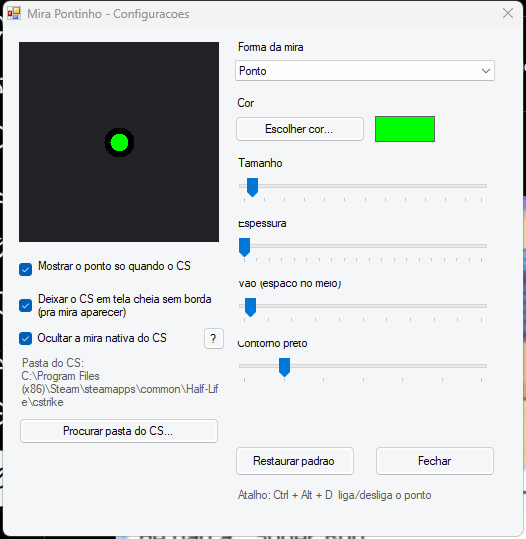
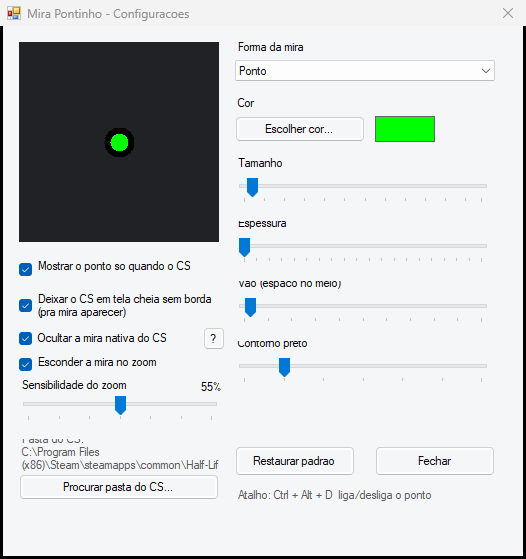
feat: esconder a mira no zoom (AWP/Scout) + sensibilidade ajustavel

diff --git a/src/MiraPontinho.cs b/src/MiraPontinho.cs
@@ -83,6 +83,9 @@ namespace MiraPontinho
                         case "--screen": s.ForceScreenCenter = true; break;
                         case "--borderless": s.Borderless = true; break;
                         case "--no-borderless": s.Borderless = false; break;
+                        case "--hide-scope": s.HideOnScope = true; break;
+                        case "--no-hide-scope": s.HideOnScope = false; break;
+                        case "--scope-threshold": s.ScopeThreshold = int.Parse(a[++i]); break;
                     }
                 }
                 catch { }
@@ -105,6 +108,8 @@ namespace MiraPontinho
         public bool Borderless = true;    // deixa a janela do CS em tela cheia sem borda
         public bool ForceScreenCenter = false;
         public bool HideCsCrosshair = false; // oculta a mira nativa do CS (via autoexec.cfg)
+        public bool HideOnScope = true;      // esconde o ponto quando da zoom (AWP/Scout)
+        public int ScopeThreshold = 55;      // % de tela preta pra considerar "scoped"
         public string CstrikePath = "";
         public string OrigCrosshairColor = "50 250 50";
         public string OrigCrosshairTranslucent = "0";
@@ -142,6 +147,8 @@ namespace MiraPontinho
                         case "onlyingame": s.OnlyInGame = v == "1"; break;
                         case "borderless": s.Borderless = v == "1"; break;
                         case "hidecs": s.HideCsCrosshair = v == "1"; break;
+                        case "hideosscope": s.HideOnScope = v == "1"; break;
+                        case "scopethreshold": s.ScopeThreshold = ParseInt(v, s.ScopeThreshold); break;
                         case "cstrikepath": s.CstrikePath = v; break;
                         case "origcolor": s.OrigCrosshairColor = v; break;
                         case "origtranslucent": s.OrigCrosshairTranslucent = v; break;
@@ -162,6 +169,7 @@ namespace MiraPontinho
             Thickness = Clamp(Thickness, 1, 20);
             Gap = Clamp(Gap, 0, 40);
             Outline = Clamp(Outline, 0, 6);
+            ScopeThreshold = Clamp(ScopeThreshold, 20, 95);
             if (Shape == null) Shape = "dot";
             Shape = Shape.ToLowerInvariant();
             if (Shape != "dot" && Shape != "cross" && Shape != "t" && Shape != "circle" && Shape != "x")
@@ -186,6 +194,8 @@ namespace MiraPontinho
                 sb.AppendLine("onlyingame=" + (OnlyInGame ? "1" : "0"));
                 sb.AppendLine("borderless=" + (Borderless ? "1" : "0"));
                 sb.AppendLine("hidecs=" + (HideCsCrosshair ? "1" : "0"));
+                sb.AppendLine("hideosscope=" + (HideOnScope ? "1" : "0"));
+                sb.AppendLine("scopethreshold=" + ScopeThreshold);
                 sb.AppendLine("cstrikepath=" + CstrikePath);
                 sb.AppendLine("origcolor=" + OrigCrosshairColor);
                 sb.AppendLine("origtranslucent=" + OrigCrosshairTranslucent);
@@ -464,6 +474,9 @@ namespace MiraPontinho
         [DllImport("user32.dll")] private static extern bool SetWindowPos(IntPtr hWnd, IntPtr hWndInsertAfter, int X, int Y, int cx, int cy, uint uFlags);
         [DllImport("user32.dll")] private static extern IntPtr MonitorFromWindow(IntPtr hwnd, int dwFlags);
         [DllImport("user32.dll")] private static extern bool GetMonitorInfo(IntPtr hMonitor, ref MONITORINFO lpmi);
+        [DllImport("user32.dll")] private static extern IntPtr GetDC(IntPtr hWnd);
+        [DllImport("user32.dll")] private static extern int ReleaseDC(IntPtr hWnd, IntPtr hDC);
+        [DllImport("gdi32.dll")] private static extern uint GetPixel(IntPtr hdc, int nXPos, int nYPos);
 
         private static readonly Dictionary<IntPtr, int> _origStyle = new Dictionary<IntPtr, int>();
         private static readonly Dictionary<IntPtr, RECT> _origRect = new Dictionary<IntPtr, RECT>();
@@ -473,6 +486,8 @@ namespace MiraPontinho
         private readonly Timer _timer;
         private bool _enabled = true;
         private DateTime _lastActive = DateTime.MinValue;
+        private bool _scoped = false;
+        private int _scopeTick = 0;
 
         public OverlayForm(Settings s)
         {
@@ -603,6 +618,13 @@ namespace MiraPontinho
                 }
             }
 
+            // esconde a mira quando o jogador esta com o zoom (AWP/Scout)
+            if (_s.HideOnScope)
+            {
+                if (++_scopeTick >= 2) { _scopeTick = 0; UpdateScopeState(game); }
+                if (_scoped) { if (Visible) Visible = false; return; }
+            }
+
             if (_s.ForceScreenCenter)
             {
                 CenterOnScreen();
@@ -628,6 +650,61 @@ namespace MiraPontinho
             // por exemplo ao mostrar o nome dos jogadores no spec)
             SetWindowPos(Handle, HWND_TOPMOST, 0, 0, 0, 0,
                 SWP_NOMOVE | SWP_NOSIZE | SWP_NOACTIVATE);
+        }
+
+        // Detecta o zoom (AWP/Scout) olhando a tela: quando o scope esta ativo,
+        // a maior parte da tela fica preta (menos o circulo central e o HUD).
+        private void UpdateScopeState(IntPtr game)
+        {
+            RECT r;
+            if (!GetClientRect(game, out r)) return;
+            int w = r.Right - r.Left;
+            int h = r.Bottom - r.Top;
+            if (w < 100 || h < 100) return;
+
+            POINT p = new POINT();
+            p.X = 0;
+            p.Y = 0;
+            ClientToScreen(game, ref p);
+
+            IntPtr hdc = GetDC(IntPtr.Zero);
+            if (hdc == IntPtr.Zero) return;
+
+            int total = 0, black = 0;
+            try
+            {
+                const int cols = 9, rows = 7;
+                for (int iy = 0; iy < rows; iy++)
+                {
+                    for (int ix = 0; ix < cols; ix++)
+                    {
+                        int x = p.X + (int)((ix + 0.5) * w / cols);
+                        int y = p.Y + (int)((iy + 0.5) * h / rows);
+                        uint c = GetPixel(hdc, x, y);
+                        if (c == 0xFFFFFFFF) continue;
+                        int rr = (int)(c & 0xFF);
+                        int gg = (int)((c >> 8) & 0xFF);
+                        int bb = (int)((c >> 16) & 0xFF);
+                        total++;
+                        if (rr <= 20 && gg <= 20 && bb <= 20) black++;
+                    }
+                }
+            }
+            finally
+            {
+                ReleaseDC(IntPtr.Zero, hdc);
+            }
+
+            if (total == 0) return;
+            int pct = black * 100 / total;
+            if (_scoped)
+            {
+                if (pct < _s.ScopeThreshold - 12) _scoped = false;
+            }
+            else
+            {
+                if (pct >= _s.ScopeThreshold) _scoped = true;
+            }
         }
 
         private void CenterOnScreen()
@@ -729,8 +806,9 @@ namespace MiraPontinho
         private Panel _swatch;
         private TrackBar _size, _thick, _gap, _outline;
         private Label _sizeV, _thickV, _gapV, _outlineV;
-        private CheckBox _onlyGame, _borderless, _hideCs;
-        private Label _csStatus;
+        private CheckBox _onlyGame, _borderless, _hideCs, _hideScope;
+        private TrackBar _scopeSens;
+        private Label _csStatus, _scopeSensV;
         private PreviewPanel _preview;
         private bool _suppress;
 
@@ -747,7 +825,7 @@ namespace MiraPontinho
             MaximizeBox = false;
             MinimizeBox = false;
             StartPosition = FormStartPosition.CenterScreen;
-            ClientSize = new Size(520, 510);
+            ClientSize = new Size(520, 530);
             TopMost = true;
             BackColor = Color.FromArgb(245, 246, 248);
 
@@ -827,14 +905,47 @@ namespace MiraPontinho
             help.Click += delegate { using (HelpForm h = new HelpForm(_s)) h.ShowDialog(this); };
             Controls.Add(help);
 
+            _hideScope = new CheckBox();
+            _hideScope.Text = "Esconder a mira no zoom (AWP/Scout)";
+            _hideScope.SetBounds(16, 328, 206, 22);
+            _hideScope.Checked = _s.HideOnScope;
+            _hideScope.CheckedChanged += delegate { _s.HideOnScope = _hideScope.Checked; Changed(); };
+            Controls.Add(_hideScope);
+
+            Label sensL = new Label();
+            sensL.Text = "Sensibilidade do zoom";
+            sensL.SetBounds(16, 352, 150, 16);
+            Controls.Add(sensL);
+
+            _scopeSensV = new Label();
+            _scopeSensV.Text = _s.ScopeThreshold + "%";
+            _scopeSensV.TextAlign = ContentAlignment.MiddleRight;
+            _scopeSensV.SetBounds(170, 352, 52, 16);
+            Controls.Add(_scopeSensV);
+
+            _scopeSens = new TrackBar();
+            _scopeSens.Minimum = 25;
+            _scopeSens.Maximum = 85;
+            _scopeSens.TickFrequency = 10;
+            _scopeSens.LargeChange = 5;
+            _scopeSens.Value = _s.ScopeThreshold;
+            _scopeSens.SetBounds(12, 368, 210, 32);
+            _scopeSens.ValueChanged += delegate
+            {
+                _s.ScopeThreshold = _scopeSens.Value;
+                _scopeSensV.Text = _scopeSens.Value + "%";
+                Changed();
+            };
+            Controls.Add(_scopeSens);
+
             _csStatus = new Label();
-            _csStatus.SetBounds(16, 330, 206, 58);
+            _csStatus.SetBounds(16, 406, 206, 40);
             _csStatus.ForeColor = Color.FromArgb(90, 90, 90);
             Controls.Add(_csStatus);
 
             Button browse = new Button();
             browse.Text = "Procurar pasta do CS...";
-            browse.SetBounds(16, 392, 200, 26);
+            browse.SetBounds(16, 448, 200, 26);
             browse.Click += delegate { BrowseCstrike(); };
             Controls.Add(browse);
 

diff --git a/README.md b/README.md
@@ -21,6 +21,7 @@ Um overlay **externo** que desenha uma mira (ponto, cruz, T, círculo ou X) no c
 - **Pré-visualização ao vivo** enquanto você ajusta
 - Segue a janela do CS (funciona em janela e em **tela cheia sem borda**)
 - **Oculta a mira nativa do CS** (opção automática + ajuda manual com botão **?**)
+- **Esconde a mira no zoom** (AWP/Scout) automaticamente
 - Atalho global **Ctrl + Alt + D** para ligar/desligar
 - Ícone na bandeja do sistema
 - Salva as configurações em `MiraPontinho.ini`
@@ -48,6 +49,11 @@ Não funcionou? Clique no botão **?** ao lado da opção — abre um passo a pa
 
 ![Ajuda para ocultar a mira](docs/help.png)
 
+### 🔭 Zoom (AWP/Scout)
+Quando você dá zoom com a AWP/Scout, o CS cobre a tela com o scope. A opção **"Esconder a mira no zoom"** detecta isso (pela tela ficar quase toda preta) e esconde o ponto, pra não atrapalhar. Se ele esconder demais ou de menos, ajuste a **"Sensibilidade do zoom"**.
+
+> É uma detecção **visual** (sem injetar nada no jogo), então em cenas muito escuras pode variar. Dá pra desligar a opção e usar o atalho manual.
+
 ### 🖥 Tela cheia
 O Windows não deixa janelas comuns aparecerem por cima de jogos em "tela cheia exclusiva". Por isso o programa deixa o CS em **tela cheia sem borda** (opção ligada por padrão) — fica idêntico à tela cheia, e a mira aparece por cima. Se ainda assim não aparecer, deixe o CS em modo janela uma vez (*Options → Video → "Run in a window"*).
 
@@ -60,6 +66,9 @@ MiraPontinho.exe --hide-cs             oculta a mira nativa do CS
 MiraPontinho.exe --show-cs             restaura a mira nativa do CS
 MiraPontinho.exe --help-manual         abre a ajuda manual
 MiraPontinho.exe --no-borderless       não mexe na janela do CS
+MiraPontinho.exe --hide-scope          esconde a mira no zoom (padrão)
+MiraPontinho.exe --no-hide-scope       não esconde a mira no zoom
+MiraPontinho.exe --scope-threshold 55  sensibilidade do zoom (25 a 85)
 ```
 
 ### 🔧 Compilar
@@ -87,6 +96,7 @@ An **external overlay** that draws a crosshair (dot, cross, T, circle or X) in t
 - **Live preview**
 - Follows the CS window (works windowed and in **borderless fullscreen**)
 - **Hides the native CS crosshair** (automatic option + manual help with a **?** button)
+- **Auto-hides the crosshair when scoped** (AWP/Scout)
 - Global hotkey **Ctrl + Alt + D** to toggle
 - System tray icon
 - Saves settings to `MiraPontinho.ini`
@@ -98,6 +108,11 @@ An **external overlay** that draws a crosshair (dot, cross, T, circle or X) in t
 3. Adjust the crosshair in the settings window.
 4. Launch CS 1.6 — the crosshair appears in the center while CS is focused.
 
+### Zoom (AWP/Scout)
+When you scope with the AWP/Scout, CS covers the screen with the scope. The **"Hide crosshair when scoped"** option detects it (the screen becomes mostly black) and hides the dot. Adjust **"Scope sensitivity"** if it triggers too much or too little.
+
+> It is a **visual** detection (nothing is injected into the game), so very dark scenes may vary. You can turn it off and use the manual hotkey instead.
+
 ### Command line
 ```
 MiraPontinho.exe --silent              overlay only (no settings window)
@@ -107,6 +122,9 @@ MiraPontinho.exe --hide-cs             hide the native CS crosshair
 MiraPontinho.exe --show-cs             restore the native CS crosshair
 MiraPontinho.exe --help-manual         open the manual help
 MiraPontinho.exe --no-borderless       do not touch the CS window
+MiraPontinho.exe --hide-scope          hide the crosshair when scoped (default)
+MiraPontinho.exe --no-hide-scope       do not hide when scoped
+MiraPontinho.exe --scope-threshold 55  scope detection sensitivity (25-85)
 ```
 
 ### Build
